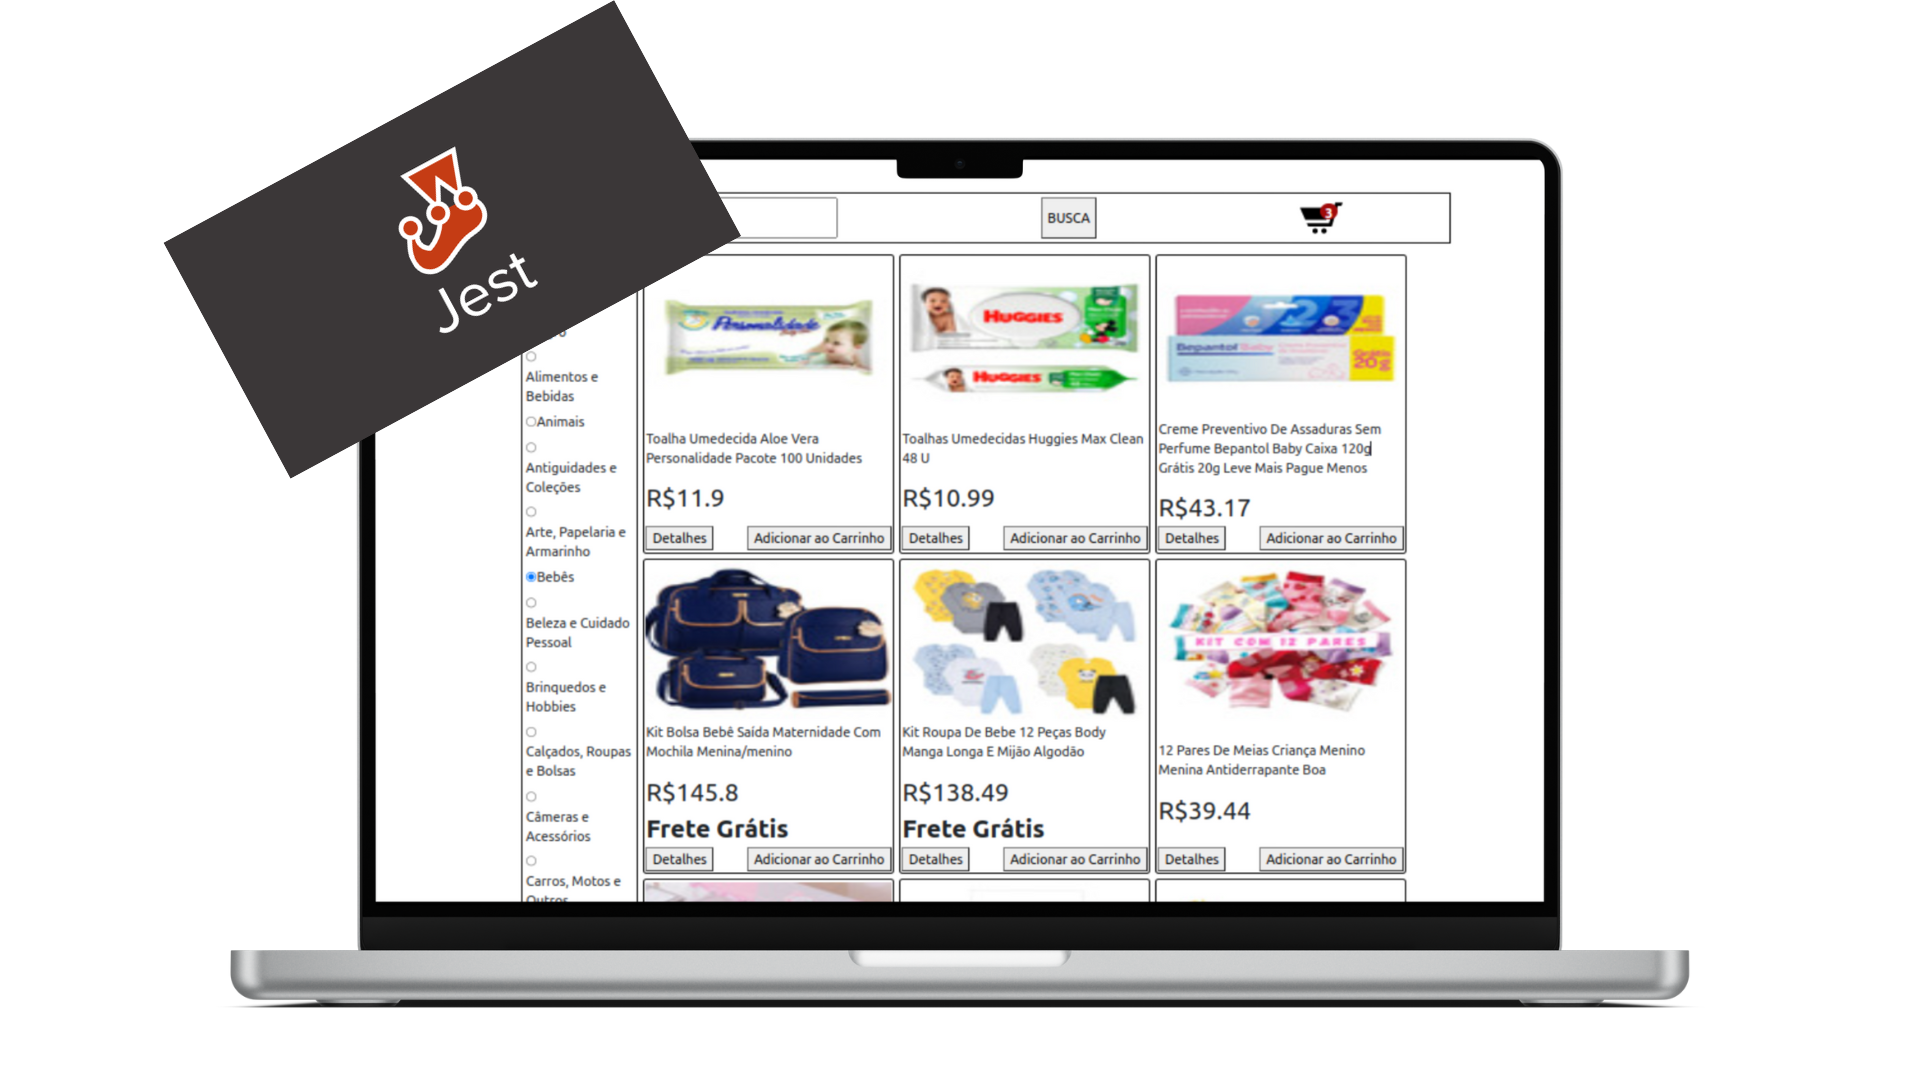
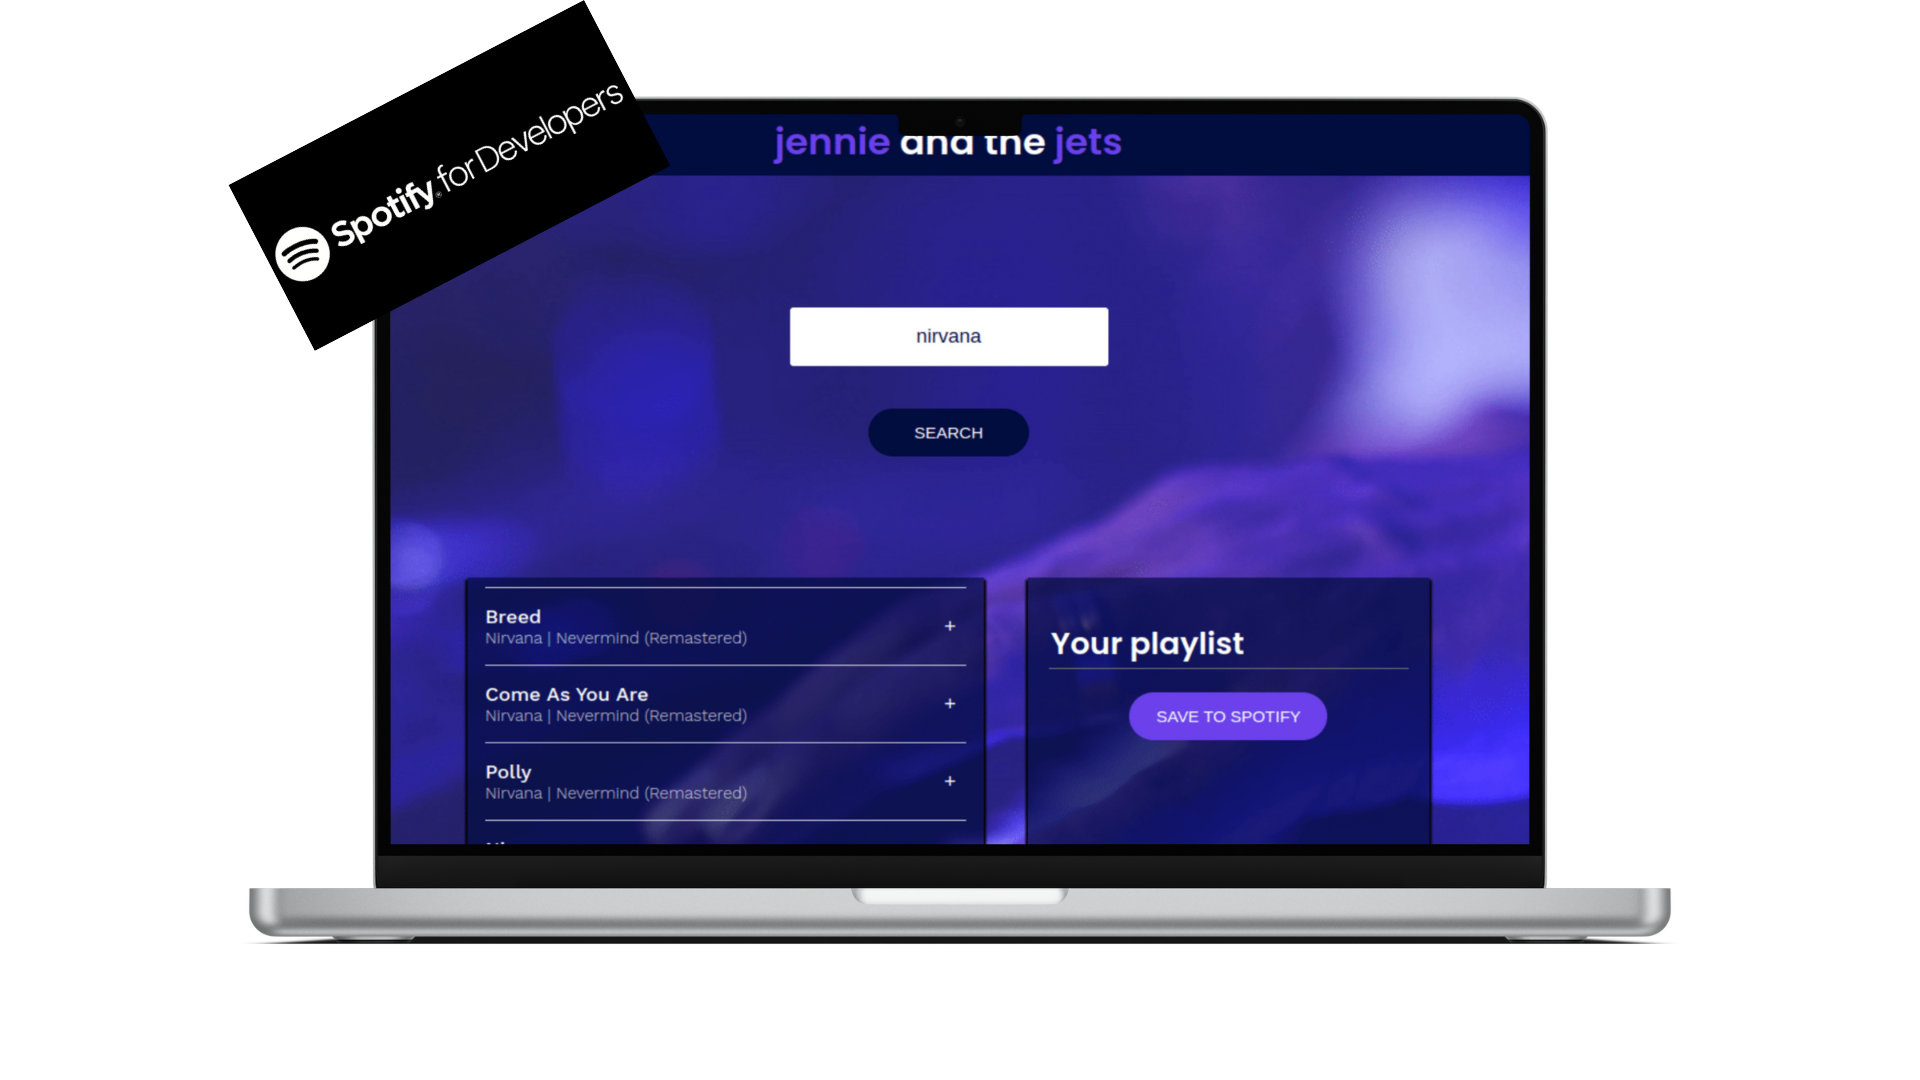
new projects

diff --git a/src/info/Info.js b/src/info/Info.js
@@ -1,14 +1,14 @@
-import self from "../img/self.png"
-import mock1 from "../img/mock1.png"
-import mock2 from "../img/mock2.png"
-import mock3 from "../img/mock3.png"
-import mock4 from "../img/mock4.png"
-import mock5 from "../img/mock5.png"
+import self from '../img/self.png';
+import mock1 from '../img/mock1.png';
+import mock2 from '../img/mock2.png';
+import mock3 from '../img/mock3.png';
+import mock4 from '../img/mock4.png';
+import mock5 from '../img/mock5.png';
 
 /* Hi there! Thanks for checking out my portfolio template. Be sure to read the comments to get a better understanding of
 how to make this template work best for you! */
 
-export let colors = ["rgb(19, 195, 196)", "rgb(94, 169, 113)"];
+export let colors = ['rgb(19, 195, 196)', 'rgb(94, 169, 113)'];
 /*
     HEX: #13C3C4, #5EA971
 
@@ -17,7 +17,6 @@ These colors will be used to style your name on the homepage, the background of 
 the site.
  */
 
-
 /*
 So let's get started! Some of the info below is pretty self-explanatory, like 'firstName' and 'bio'. I'll try to explain anything
 that might not be obvious right off the bat :) I recommend looking at the template example live using "npm start" to get an idea
@@ -25,122 +24,120 @@ of what each of the values mean.
  */
 
 export const info = {
-    firstName: "Lucas",
-    lastName: "Werner",
-    initials: "LW", // the example uses first and last, but feel free to use three or more if you like.
-    position: "a Full Stack Developer",
-    selfPortrait: self, // don't change this unless you want to name your self-portrait in the "img" folder something else!
-    gradient: `-webkit-linear-gradient(135deg, ${colors})`, // don't change this either
-    baseColor: colors[0],
-    miniBio: [ // these are just some "tidbits" about yourself. You can look at mine https://paytonjewell.github.io/#/ for an example if you'd like
-        {
-            emoji: '🚀',
-            text: 'Cadet @42Porto'
-        },
-        {
-            emoji: '🌎',
-            text: 'Based in Porto, Portugal'
-        },       
-        {
-            emoji: "👓", 
-            text: "Looking for oportunities as a Full Stack Web Developer"
-        },
-        {
-            emoji: '📚', 
-            text: "Author of 'Synthesis of Incompleteness'"
-        },
-        {
-            emoji: "📧",
-            text: "lucaswvnoronha@gmail.com"
-        }
-    ],
-    socials: [
-        //{
-        //    link: "https://facebook.com",
-        //    icon: 'fa fa-facebook',
-        //    label: 'facebook'
-        //},
-        //{
-        //    link: "https://instagram.com",
-        //    icon: 'fa fa-instagram',
-        //    label: 'instagram'
-        //},
-        {
-            link: "https://github.com/lucas-werner",
-            icon: "fa fa-github",
-            label: 'github'
-        },
-        {
-            link: "https://www.linkedin.com/in/lucaswvn/",
-            icon: "fa fa-linkedin",
-            label: 'linkedin'
-        },
-        //{
-        //    link: "https://twitter.com/igrNasc",
-        //    icon: "fa fa-twitter",
-        //    label: 'twitter'
-        //}
-// Feel free to remove any of these that you don't have. I'll write an FAQ on how to add new ones later, let me know if you have a request for an icon!
-// Just change the links so that they lead to your social profiles.
-
-    ],
-    bio: "Hello! I'm Lucas. I'm a Software Engineering student at 42 Porto. I enjoy writing and playing the guitar.",
-    skills:
-        {
-            proficientWith: ['javascript', 'nodejs', 'react', 'redux', 'express'],
-            exposedTo: ['mongodb', 'docker']
-        }
-    ,
-    hobbies: [
-        {
-            label: 'games',
-            emoji: '🎮'
-        },
-        {
-            label: 'playing guitar',
-            emoji: '🎸 ' 
-        },
-        {
-            label: 'writing',
-            emoji: '✏ ' 
-        },
-        {
-            label: 'reading',
-            emoji: '📖'
-        }
-// Same as above, change the emojis to match / relate to your hobbies or interests.
-// You can also remove the emojis if you'd like, I just think they look cute :P
-    ],
-    portfolio: [ 
-        {
-            title: "Starwars Datatable - Context API + Hooks",
-            live: "https://lucas-werner.github.io/starwars/", 
-            source: "https://github.com/lucas-werner/starwars", 
-            image: mock1
-        },
-        {
-            title: "Trivia Game - Redux",
-            live: "https://lucas-werner.github.io/trivia-game/",
-            source: "https://github.com/lucas-werner/trivia-game",
-            image: mock2
-        },
-        {
-            title: "Online Store - React + JEST",
-            live: "https://lucas-werner.github.io/online-store/",
-            source: "https://github.com/lucas-werner/online-store",
-            image: mock3
-        },
-        {
-            title: "Digital Talents Localiza - React CRUD + Router",
-            live: "https://lucas-werner.github.io/talentos-digitais-localiza/",
-            source: "https://github.com/lucas-werner/talentos-digitais-localiza",
-            image: mock4
-        },
-        //{
-        //    title: "Project 5",
-        //    live: "https://paytonpierce.dev",
-        //    source: "https://github.com/paytonjewell",
-        //    image: mock5
-        //}
-    ]
-}
+  firstName: 'Lucas',
+  lastName: 'Werner',
+  initials: 'LW', // the example uses first and last, but feel free to use three or more if you like.
+  position: 'a Full Stack Developer',
+  selfPortrait: self, // don't change this unless you want to name your self-portrait in the "img" folder something else!
+  gradient: `-webkit-linear-gradient(135deg, ${colors})`, // don't change this either
+  baseColor: colors[0],
+  miniBio: [
+    // these are just some "tidbits" about yourself. You can look at mine https://paytonjewell.github.io/#/ for an example if you'd like
+    {
+      emoji: '🚀',
+      text: 'Cadet @42Porto',
+    },
+    {
+      emoji: '🌎',
+      text: 'Based in Porto, Portugal',
+    },
+    {
+      emoji: '👓',
+      text: 'Looking for oportunities as a Full Stack Web Developer',
+    },
+    {
+      emoji: '📚',
+      text: "Author of 'Synthesis of Incompleteness'",
+    },
+    {
+      emoji: '📧',
+      text: 'lucaswvnoronha@gmail.com',
+    },
+  ],
+  socials: [
+    //{
+    //    link: "https://facebook.com",
+    //    icon: 'fa fa-facebook',
+    //    label: 'facebook'
+    //},
+    //{
+    //    link: "https://instagram.com",
+    //    icon: 'fa fa-instagram',
+    //    label: 'instagram'
+    //},
+    {
+      link: 'https://github.com/lucas-werner',
+      icon: 'fa fa-github',
+      label: 'github',
+    },
+    {
+      link: 'https://www.linkedin.com/in/lucaswvn/',
+      icon: 'fa fa-linkedin',
+      label: 'linkedin',
+    },
+    //{
+    //    link: "https://twitter.com/igrNasc",
+    //    icon: "fa fa-twitter",
+    //    label: 'twitter'
+    //}
+    // Feel free to remove any of these that you don't have. I'll write an FAQ on how to add new ones later, let me know if you have a request for an icon!
+    // Just change the links so that they lead to your social profiles.
+  ],
+  bio: "Hello! I'm Lucas. I'm a Software Engineering student at 42 Porto. I enjoy writing and playing the guitar.",
+  skills: {
+    proficientWith: ['javascript', 'nodejs', 'react', 'redux', 'express'],
+    exposedTo: ['mongodb', 'docker'],
+  },
+  hobbies: [
+    {
+      label: 'games',
+      emoji: '🎮',
+    },
+    {
+      label: 'playing guitar',
+      emoji: '🎸 ',
+    },
+    {
+      label: 'writing',
+      emoji: '✏ ',
+    },
+    {
+      label: 'reading',
+      emoji: '📖',
+    },
+    // Same as above, change the emojis to match / relate to your hobbies or interests.
+    // You can also remove the emojis if you'd like, I just think they look cute :P
+  ],
+  portfolio: [
+    {
+      title: 'Starwars Datatable - Context API + Hooks',
+      live: 'https://lucas-werner.github.io/starwars/',
+      source: 'https://github.com/lucas-werner/starwars',
+      image: mock1,
+    },
+    {
+      title: 'Trivia Game - Redux',
+      live: 'https://lucas-werner.github.io/trivia-game/',
+      source: 'https://github.com/lucas-werner/trivia-game',
+      image: mock2,
+    },
+    {
+      title: 'Jennie and The Jets - Spotify API',
+      live: 'https://lucas-werner.github.io/jennie-and-the-jets/',
+      source: 'https://github.com/lucas-werner/jennie-and-the-jets',
+      image: mock3,
+    },
+    //{
+    //    title: "Digital Talents Localiza - React CRUD + Router",
+    //    live: "https://lucas-werner.github.io/talentos-digitais-localiza/",
+    //    source: "https://github.com/lucas-werner/talentos-digitais-localiza",
+    //    image: mock4
+    //},
+    //{
+    //    title: "Project 5",
+    //    live: "https://paytonpierce.dev",
+    //    source: "https://github.com/paytonjewell",
+    //    image: mock5
+    //}
+  ],
+};
